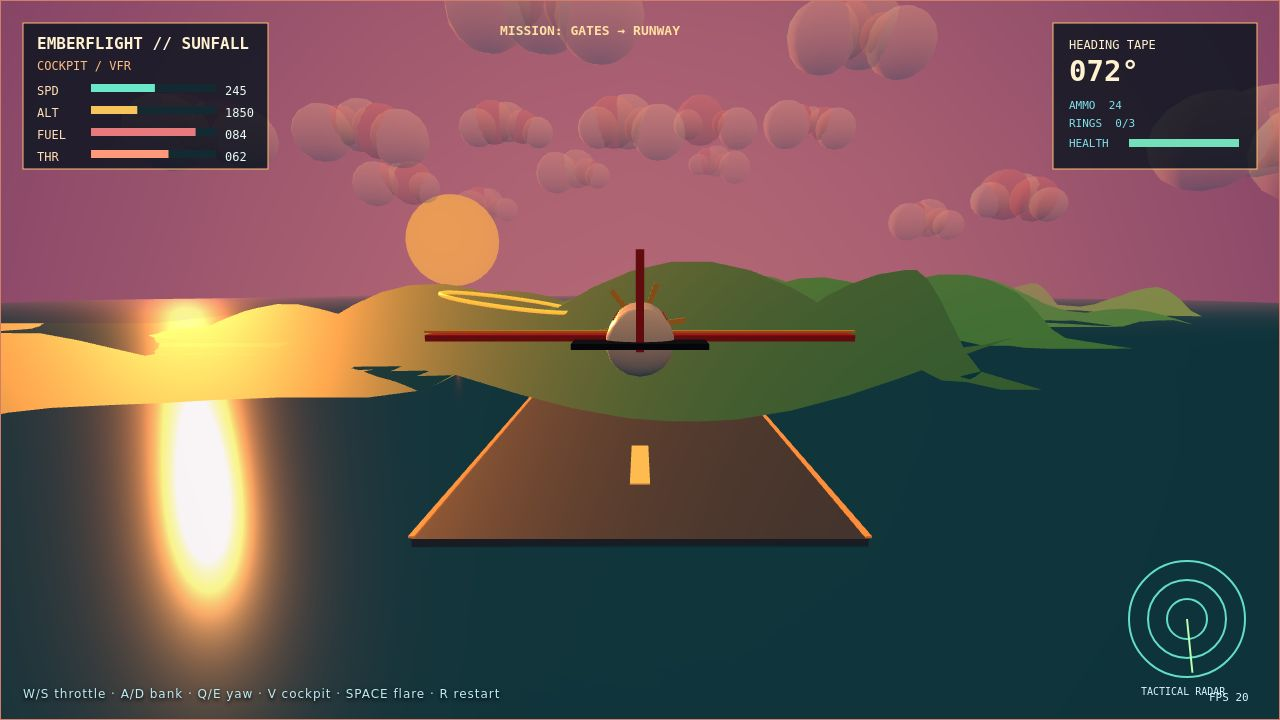
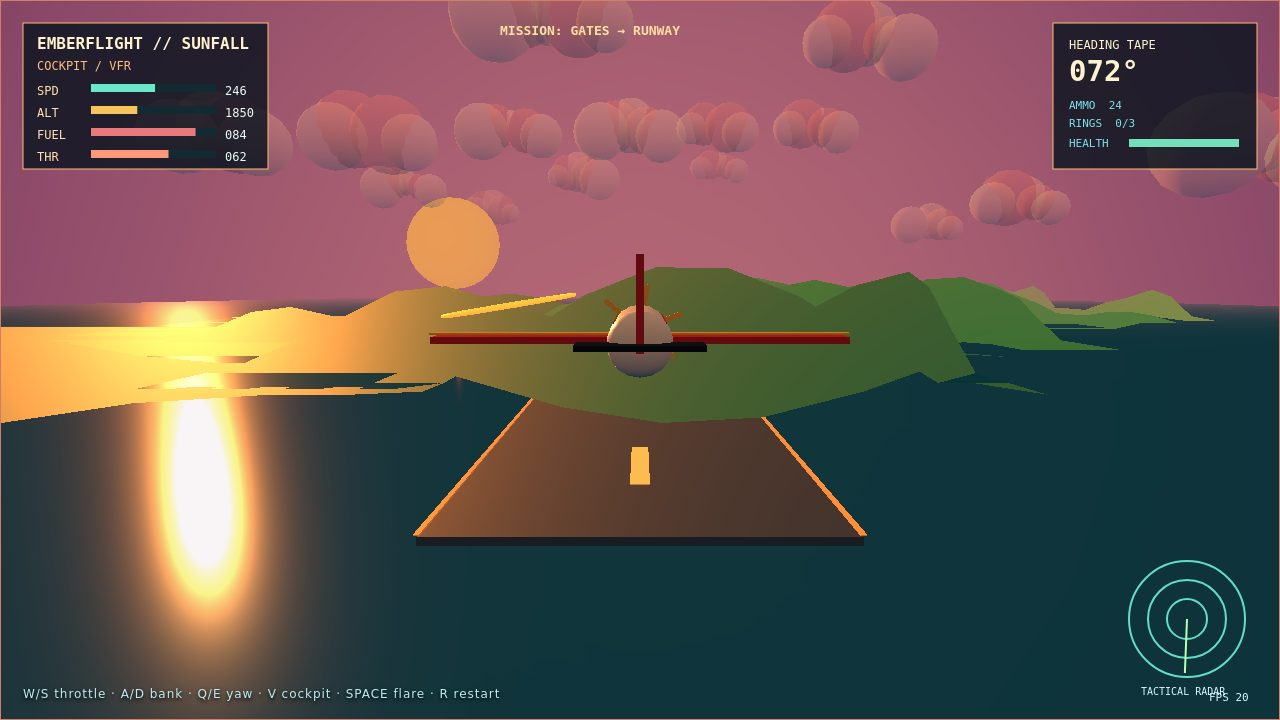
brighten sunset palette and racing aircraft

diff --git a/game/src/three-scene.js b/game/src/three-scene.js
@@ -1,14 +1,14 @@
 import * as THREE from '../vendor/three.module.js';
 export class FlightScene3D{
- constructor(canvas){this.canvas=canvas;this.clock=new THREE.Clock();this.renderer=new THREE.WebGLRenderer({canvas,antialias:true});this.renderer.setPixelRatio(Math.min(devicePixelRatio,2));this.renderer.shadowMap.enabled=true;this.renderer.shadowMap.type=THREE.PCFSoftShadowMap;this.renderer.outputColorSpace=THREE.SRGBColorSpace;this.scene=new THREE.Scene();this.scene.fog=new THREE.Fog(0xb86b76,90,360);this.camera=new THREE.PerspectiveCamera(58,1,.1,600);this.camera.position.set(0,10,24);this.target=new THREE.Vector3(0,4,0);this.build();addEventListener('resize',()=>this.resize());this.resize()}
+ constructor(canvas){this.canvas=canvas;this.clock=new THREE.Clock();this.renderer=new THREE.WebGLRenderer({canvas,antialias:false,powerPreference:'high-performance'});this.renderer.setPixelRatio(1);this.renderer.shadowMap.enabled=false;this.renderer.outputColorSpace=THREE.SRGBColorSpace;this.scene=new THREE.Scene();this.scene.fog=new THREE.Fog(0xb86b76,90,360);this.camera=new THREE.PerspectiveCamera(58,1,.1,600);this.camera.position.set(0,10,24);this.target=new THREE.Vector3(0,4,0);this.build();addEventListener('resize',()=>this.resize());this.resize()}
  resize(){const r=this.canvas.getBoundingClientRect();this.renderer.setSize(r.width,r.height,false);this.camera.aspect=r.width/r.height;this.camera.updateProjectionMatrix()}
  mat(c,metal=0,rough=.7){return new THREE.MeshStandardMaterial({color:c,metalness:metal,roughness:rough})}
  build(){const hemi=new THREE.HemisphereLight(0xffc0a0,0x154b68,3.2);this.scene.add(hemi);this.sun=new THREE.DirectionalLight(0xff913f,7);this.sun.position.set(-70,35,-100);this.sun.castShadow=true;this.sun.shadow.mapSize.set(1024,1024);this.scene.add(this.sun);const amb=new THREE.MeshBasicMaterial({color:0x6d315f,side:THREE.BackSide});this.scene.add(new THREE.Mesh(new THREE.SphereGeometry(280,32,16),amb));this.sunDisc=new THREE.Mesh(new THREE.SphereGeometry(14,24,16),new THREE.MeshBasicMaterial({color:0xffb048}));this.sunDisc.position.set(-58,20,-170);this.scene.add(this.sunDisc);this.sunGlow=new THREE.PointLight(0xff7a3d,10,180);this.sunGlow.position.copy(this.sunDisc.position);this.scene.add(this.sunGlow);this.makeSea();this.makeTerrain();this.makeRunway();this.makePlane();this.makeClouds();this.makeRings()}
  makeSea(){const geo=new THREE.PlaneGeometry(500,500,40,40);geo.rotateX(-Math.PI/2);const pos=geo.attributes.position;for(let i=0;i<pos.count;i++)pos.setY(i,0);this.sea=new THREE.Mesh(geo,new THREE.MeshStandardMaterial({color:0x075b86,metalness:.58,roughness:.12,transparent:true,opacity:.97}));this.sea.receiveShadow=true;this.scene.add(this.sea);}
- makeTerrain(){this.terrain=new THREE.Group();for(let k=0;k<4;k++){const geo=new THREE.PlaneGeometry(170,90,45,25);geo.rotateX(-Math.PI/2);const p=geo.attributes.position;for(let i=0;i<p.count;i++){const x=p.getX(i),z=p.getZ(i);p.setY(i,Math.max(0,Math.sin(x*.09+k)*Math.cos(z*.12)*7+Math.sin(x*.025)*5-k*1.4))}const mesh=new THREE.Mesh(geo,this.mat([0x176b4d,0x238354,0x32945d,0x58a968][k],.08,.68));mesh.position.set((k-1.5)*32,0,-55-k*35);mesh.receiveShadow=true;this.terrain.add(mesh)}this.scene.add(this.terrain)}
+ makeTerrain(){this.terrain=new THREE.Group();for(let k=0;k<4;k++){const geo=new THREE.PlaneGeometry(170,90,24,14);geo.rotateX(-Math.PI/2);const p=geo.attributes.position;for(let i=0;i<p.count;i++){const x=p.getX(i),z=p.getZ(i);p.setY(i,Math.max(0,Math.sin(x*.09+k)*Math.cos(z*.12)*7+Math.sin(x*.025)*5-k*1.4))}const mesh=new THREE.Mesh(geo,this.mat([0x176b4d,0x238354,0x32945d,0x58a968][k],.08,.68));mesh.position.set((k-1.5)*32,0,-55-k*35);mesh.receiveShadow=true;this.terrain.add(mesh)}this.scene.add(this.terrain)}
  makeRunway(){const g=new THREE.Group();const base=new THREE.Mesh(new THREE.BoxGeometry(18,.35,120),this.mat(0x263747,0,.72));base.position.set(0,.25,-50);base.receiveShadow=true;g.add(base);for(let z=-105;z<5;z+=15){const mark=new THREE.Mesh(new THREE.BoxGeometry(1,.06,7),this.mat(0xffd87b,0,.45));mark.position.set(0,.46,z);g.add(mark)}for(const x of [-9,9]){const edge=new THREE.Mesh(new THREE.BoxGeometry(.25,.08,120),this.mat(0xffa55d,0,.4));edge.position.set(x,.5,-50);g.add(edge)}this.scene.add(g)}
  makePlane(){this.aircraft=new THREE.Group();const red=this.mat(0xc92f3f,.6,.24),white=this.mat(0xf4f3e7,.6,.2),black=this.mat(0x17263a,.7,.2),gold=this.mat(0xffc24d,.55,.22);const body=new THREE.Mesh(new THREE.CapsuleGeometry(1.3,6,10,18),white);body.rotation.x=Math.PI/2;body.scale.set(.82,.62,.82);body.castShadow=true;this.aircraft.add(body);const stripe=new THREE.Mesh(new THREE.BoxGeometry(1.7,1.35,4),red);stripe.position.z=-.5;stripe.castShadow=true;this.aircraft.add(stripe);const wing=new THREE.Mesh(new THREE.BoxGeometry(14,.24,1.45),red);wing.scale.y=.86;wing.castShadow=true;this.aircraft.add(wing);const wingtip=new THREE.Mesh(new THREE.BoxGeometry(14.4,.08,.3),gold);wingtip.position.y=.16;this.aircraft.add(wingtip);const tail=new THREE.Mesh(new THREE.BoxGeometry(4,.18,1.2),black);tail.position.z=2.5;tail.castShadow=true;this.aircraft.add(tail);const fin=new THREE.Mesh(new THREE.BoxGeometry(.24,3,1.1),red);fin.position.set(0,1.3,2.2);this.aircraft.add(fin);this.propeller=new THREE.Group();for(let i=0;i<3;i++){const b=new THREE.Mesh(new THREE.BoxGeometry(.2,3.6,.16),gold);b.rotation.z=i*Math.PI/1.5;this.propeller.add(b)}this.propeller.position.z=-3.7;this.aircraft.add(this.propeller);this.aircraft.position.set(0,8,8);this.aircraft.scale.setScalar(1.25);this.scene.add(this.aircraft)}
  makeClouds(){this.clouds=[];for(let i=0;i<16;i++){const g=new THREE.Group();for(let j=0;j<5;j++){const m=new THREE.Mesh(new THREE.SphereGeometry(3+Math.random()*3,12,8),new THREE.MeshStandardMaterial({color:j%2?0xff9a9e:0xfff1dc,transparent:true,opacity:.3,roughness:1}));m.position.set(j*3-6,Math.sin(j)*1.2,0);g.add(m)}g.position.set((i*43)%180-90,25+(i%4)*7,-40-(i%6)*30);this.scene.add(g);this.clouds.push(g)}}
  makeRings(){this.rings=[];for(let i=0;i<3;i++){const ring=new THREE.Mesh(new THREE.TorusGeometry(6-i*.8,.18,12,48),new THREE.MeshStandardMaterial({color:0xffd45f,emissive:0xff7b22,emissiveIntensity:2,metalness:.4,roughness:.2}));ring.position.set((i-1)*12,8-i,-25-i*30);ring.rotation.x=Math.PI/2;this.scene.add(ring);this.rings.push(ring)}}
- update(model,dt){const t=this.clock.getElapsedTime();const wind=t*.7;this.sea.material.opacity=.9+.04*Math.sin(t*2);const p=this.sea.geometry.attributes.position;for(let i=0;i<p.count;i++){const x=p.getX(i),z=p.getZ(i);p.setY(i,Math.sin(x*.06+t*1.4)*.18+Math.cos(z*.08+t)*.12)}p.needsUpdate=true;this.aircraft.rotation.z+=(model.bank*.018-this.aircraft.rotation.z)*dt*3;this.aircraft.rotation.x+=(model.pitch*.008-this.aircraft.rotation.x)*dt*3;this.aircraft.position.y=8+Math.sin(t*2)*.18;this.propeller.rotation.z=t*22;this.aircraft.position.x+=(model.bank*.03-this.aircraft.position.x)*dt*2;this.aircraft.position.z=8-model.t*.8;this.target.lerp(new THREE.Vector3(this.aircraft.position.x*.2,5,this.aircraft.position.z-18),dt*1.8);this.camera.position.lerp(new THREE.Vector3(this.aircraft.position.x*.35,11,this.aircraft.position.z+28),dt*2);this.camera.lookAt(this.target);for(const c of this.clouds){c.position.x+=dt*(1.5+(c.position.y%3));if(c.position.x>110)c.position.x=-110}for(const r of this.rings){r.rotation.z=t*.4;r.rotation.y=Math.sin(t)*.3}this.renderer.render(this.scene,this.camera)}
+ update(model,dt){const t=this.clock.getElapsedTime();const wind=t*.7;this.sea.material.opacity=.9+.04*Math.sin(t*2);this.aircraft.rotation.z+=(model.bank*.018-this.aircraft.rotation.z)*dt*3;this.aircraft.rotation.x+=(model.pitch*.008-this.aircraft.rotation.x)*dt*3;this.aircraft.position.y=8+Math.sin(t*2)*.18;this.propeller.rotation.z=t*22;this.aircraft.position.x+=(model.bank*.03-this.aircraft.position.x)*dt*2;this.aircraft.position.z=8-model.t*.8;this.target.lerp(new THREE.Vector3(this.aircraft.position.x*.2,5,this.aircraft.position.z-18),dt*1.8);this.camera.position.lerp(new THREE.Vector3(this.aircraft.position.x*.35,11,this.aircraft.position.z+28),dt*2);this.camera.lookAt(this.target);for(const c of this.clouds){c.position.x+=dt*(1.5+(c.position.y%3));if(c.position.x>110)c.position.x=-110}for(const r of this.rings){r.rotation.z=t*.4;r.rotation.y=Math.sin(t)*.3}this.renderer.render(this.scene,this.camera)}
 }
